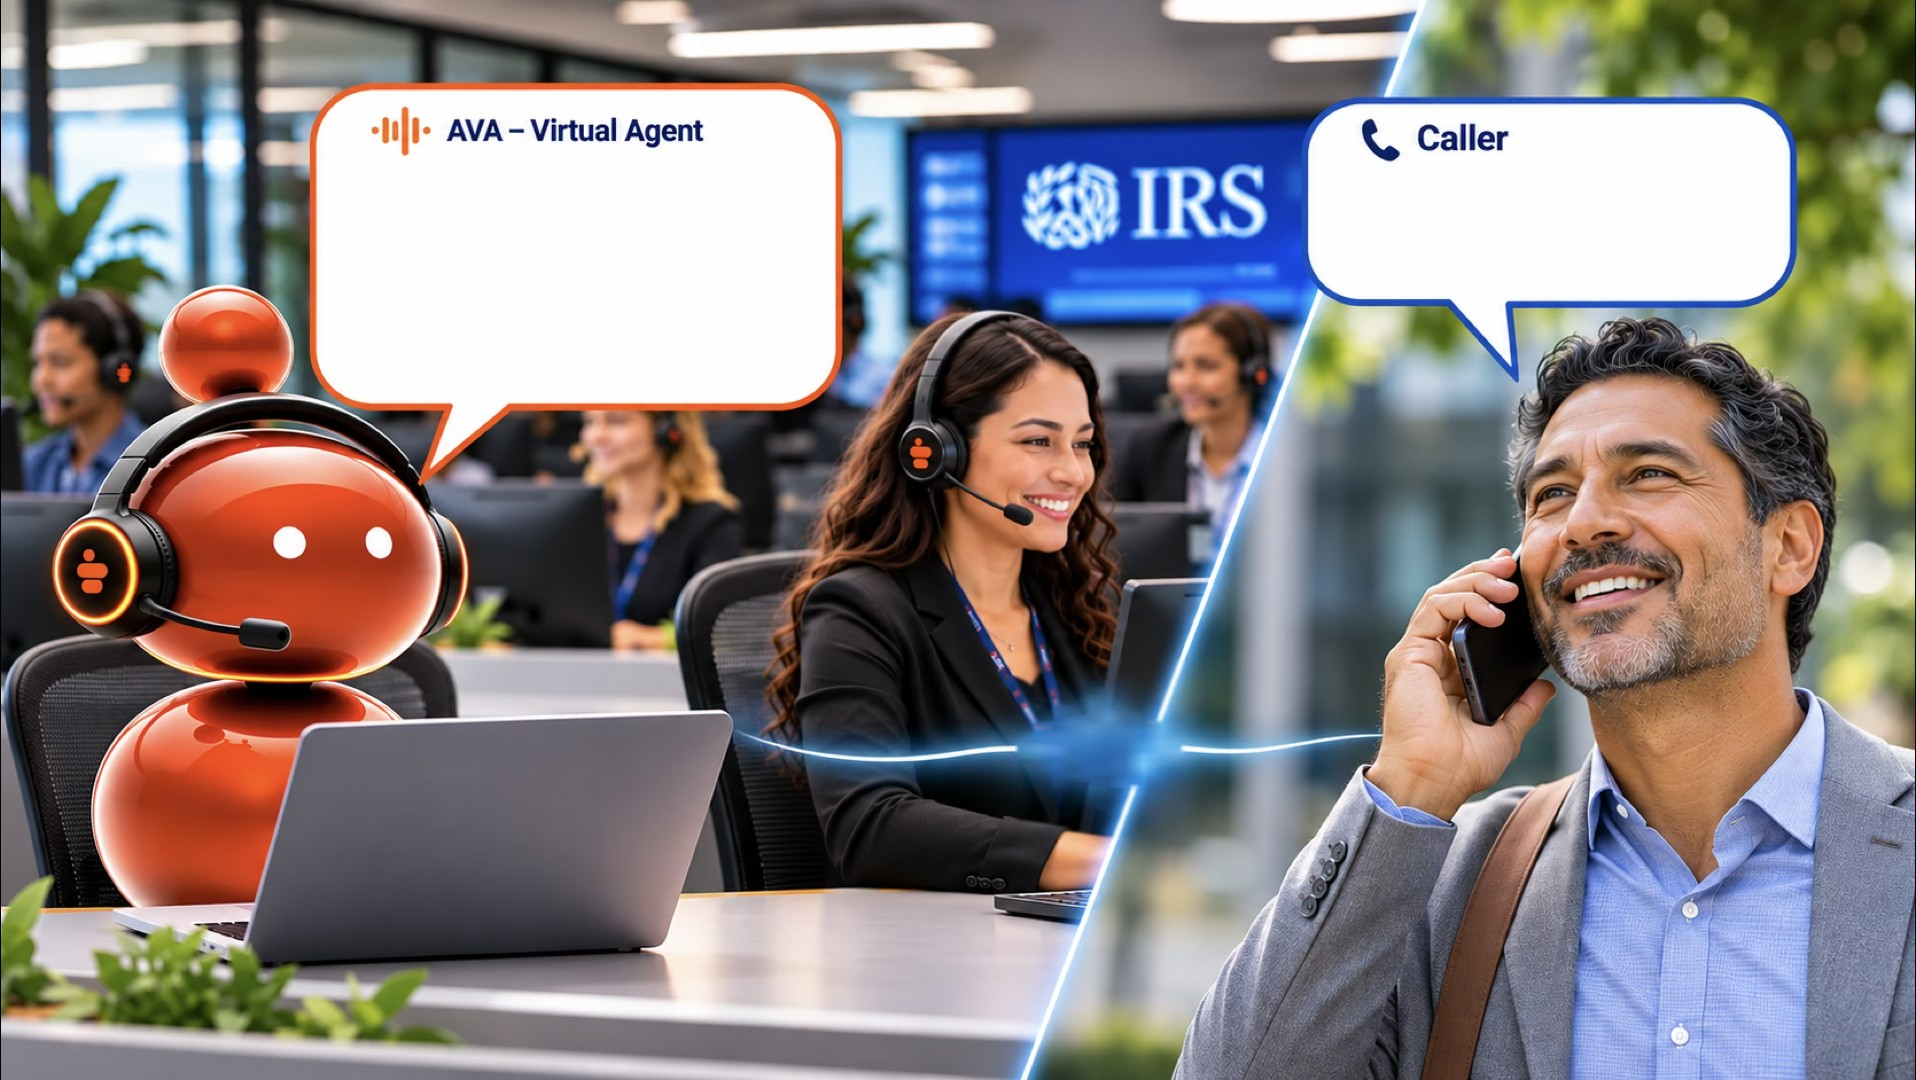
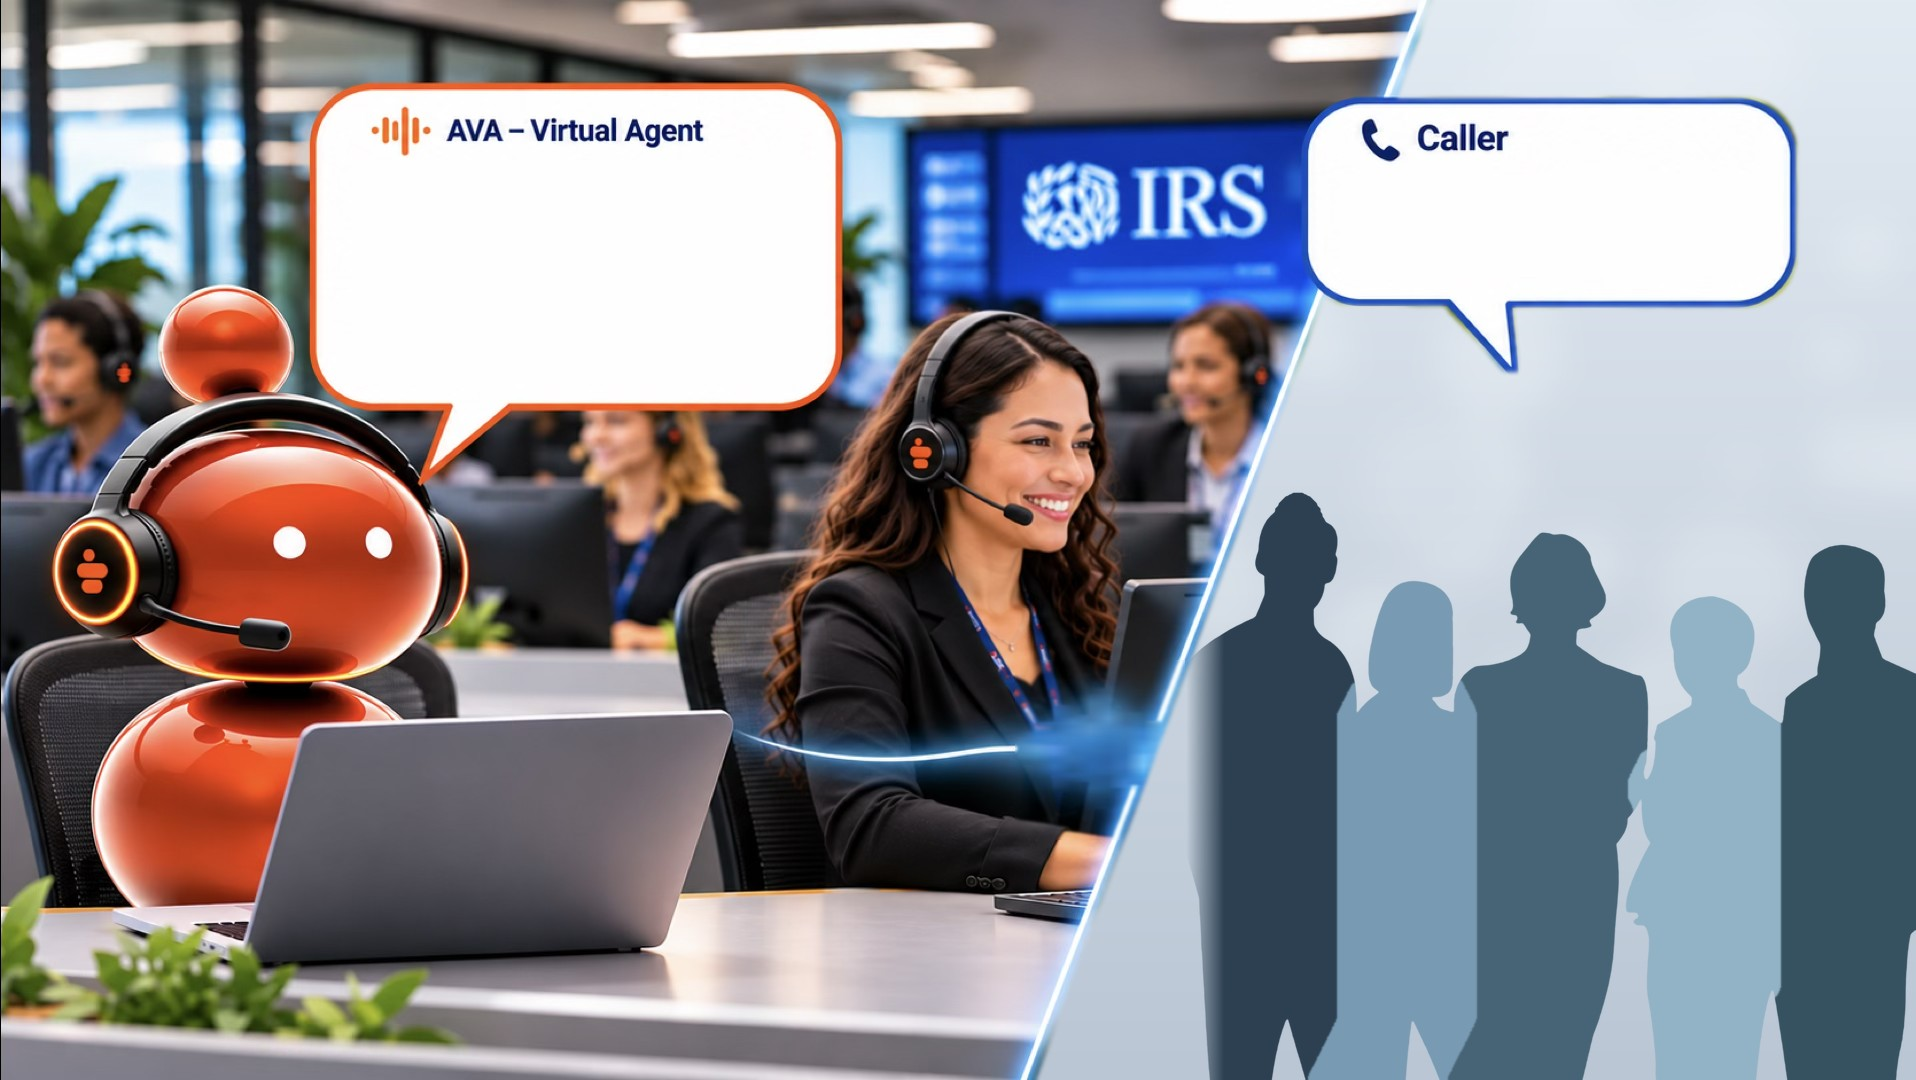
Show a group of callers in the image scene
The caller side of the built-in picture now shows Chad's group of five
silhouettes, each tinted a different blue, teal or slate tone, on a light
backdrop. The first picture with a single male caller is kept as
public/ava-scene-original.jpg and can be picked with screen.scene.image.

Claude-Session: https://claude.ai/code/session_015hyHXawcKv5ftxmc6snCTS

Changed region(s): [[0.5235, 0.0, 1.0, 1.0]]

diff --git a/src/server/config.ts b/src/server/config.ts
@@ -67,7 +67,11 @@ const SceneMouth = z.object({
  * the built-in picture (public/ava-scene.jpg, a robot, an agent and a caller).
  */
 const SceneScreen = z.object({
-  /** The picture: "" for the built-in one, a file in shows/<show>/assets/, or an https URL. Bubbles must be empty. */
+  /**
+   * The picture: "" for the built-in one (the caller side shows a group of people),
+   * "/ava-scene-original.jpg" for the first version with a single male caller, a file
+   * in shows/<show>/assets/, or an https URL. Bubbles must be empty.
+   */
   image: z.string().default(""),
   /** Width / height of the picture, so the text boxes stay on the bubbles at any screen size. */
   aspectRatio: z.number().positive().default(1916 / 1080),

diff --git a/src/server/index.ts b/src/server/index.ts
@@ -115,7 +115,7 @@ app.get("/api/show", (_req, res) => {
         ...screen.scene,
         image: !screen.scene.image
           ? "/ava-scene.jpg"
-          : /^https?:\/\//.test(screen.scene.image)
+          : /^(https?:\/\/|\/)/.test(screen.scene.image)
             ? screen.scene.image
             : `/show-assets/${screen.scene.image}`,
       },

diff --git a/README.md b/README.md
@@ -139,7 +139,7 @@ Anam has no "finished speaking" event for passthrough audio, so the kiosk estima
 AVA_RENDERER=image npm start
 ```
 
-Use a landscape screen. The built-in picture is `public/ava-scene.jpg` (its bubbles are blank). To use your own, put it in `shows/<show>/assets/` and set `"screen": { "scene": { "image": "my-scene.png" } }`. The bubbles' blank areas are set in percent of the picture under `"scene"` as `"avaBox"` and `"callerBox"` (`left`, `top`, `width`, `height`), with `"aspectRatio"` (width / height), `"fontSize"` (largest text, percent of the picture's width), `"avaColor"`, `"callerColor"` and `"idleText"` (what the AVA's bubble says before Start). Screen settings are re-read on every page load, so reload the page after an edit.
+Use a landscape screen. The built-in picture is `public/ava-scene.jpg` (its bubbles are blank, and the caller side shows a group of five people in blue and teal tones). The first version, with a single male caller, is kept as `public/ava-scene-original.jpg`: set `"scene": { "image": "/ava-scene-original.jpg" }` to use it. To use your own, put it in `shows/<show>/assets/` and set `"screen": { "scene": { "image": "my-scene.png" } }`. The bubbles' blank areas are set in percent of the picture under `"scene"` as `"avaBox"` and `"callerBox"` (`left`, `top`, `width`, `height`), with `"aspectRatio"` (width / height), `"fontSize"` (largest text, percent of the picture's width), `"avaColor"`, `"callerColor"` and `"idleText"` (what the AVA's bubble says before Start). Screen settings are re-read on every page load, so reload the page after an edit.
 
 The glowing sound wave between the agent and the caller moves with the sound: it jumps with AVA's voice as it plays and with the visitor's microphone while they hold to talk, and rests calmly otherwise. The built-in picture has its own bars painted out so the animated ones replace them. With your own picture, set `"wave"` under `"scene"` (`left`, `top`, `width`, `height` in percent, resting `bars` heights, `spacing`, `barWidth`, `color`, `glowColor`), or `"wave": { "enabled": false }` to turn it off.
 
